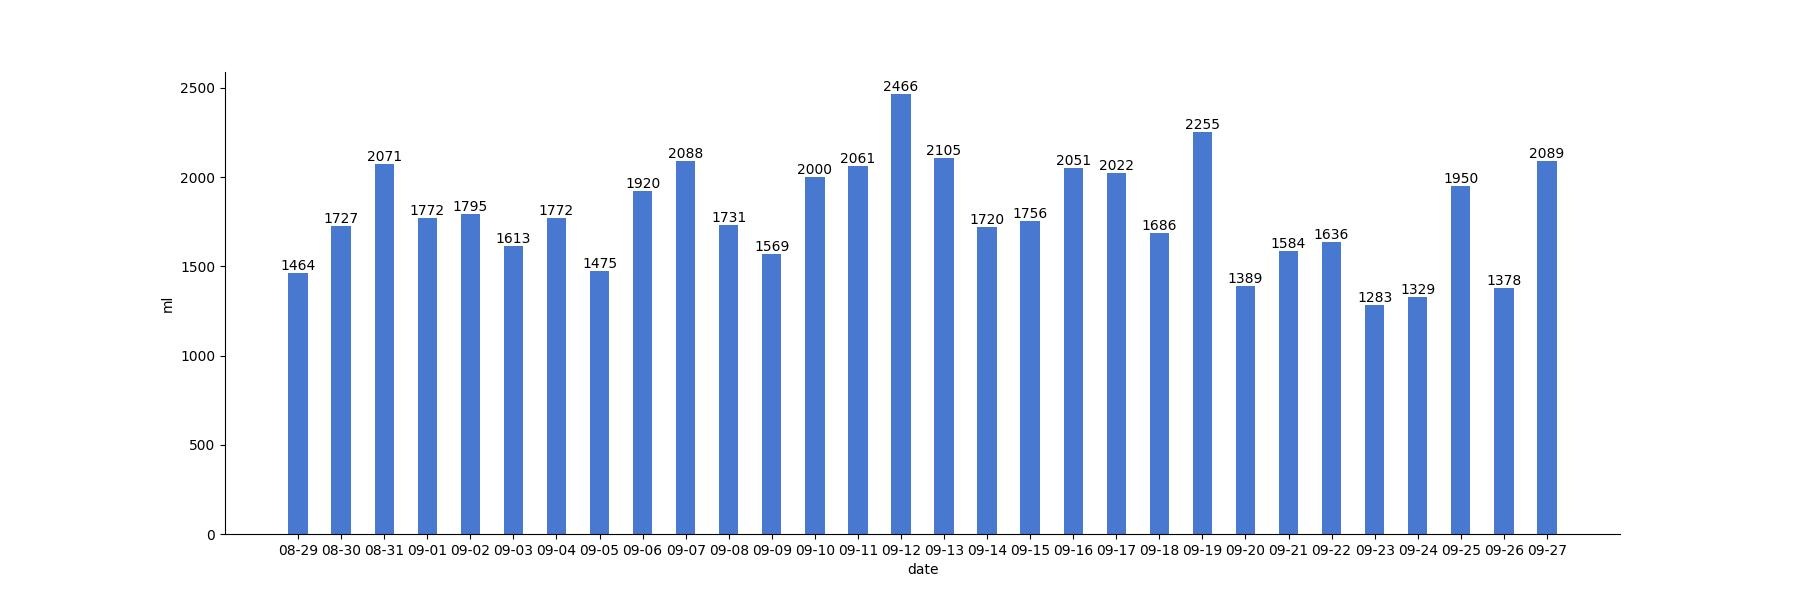
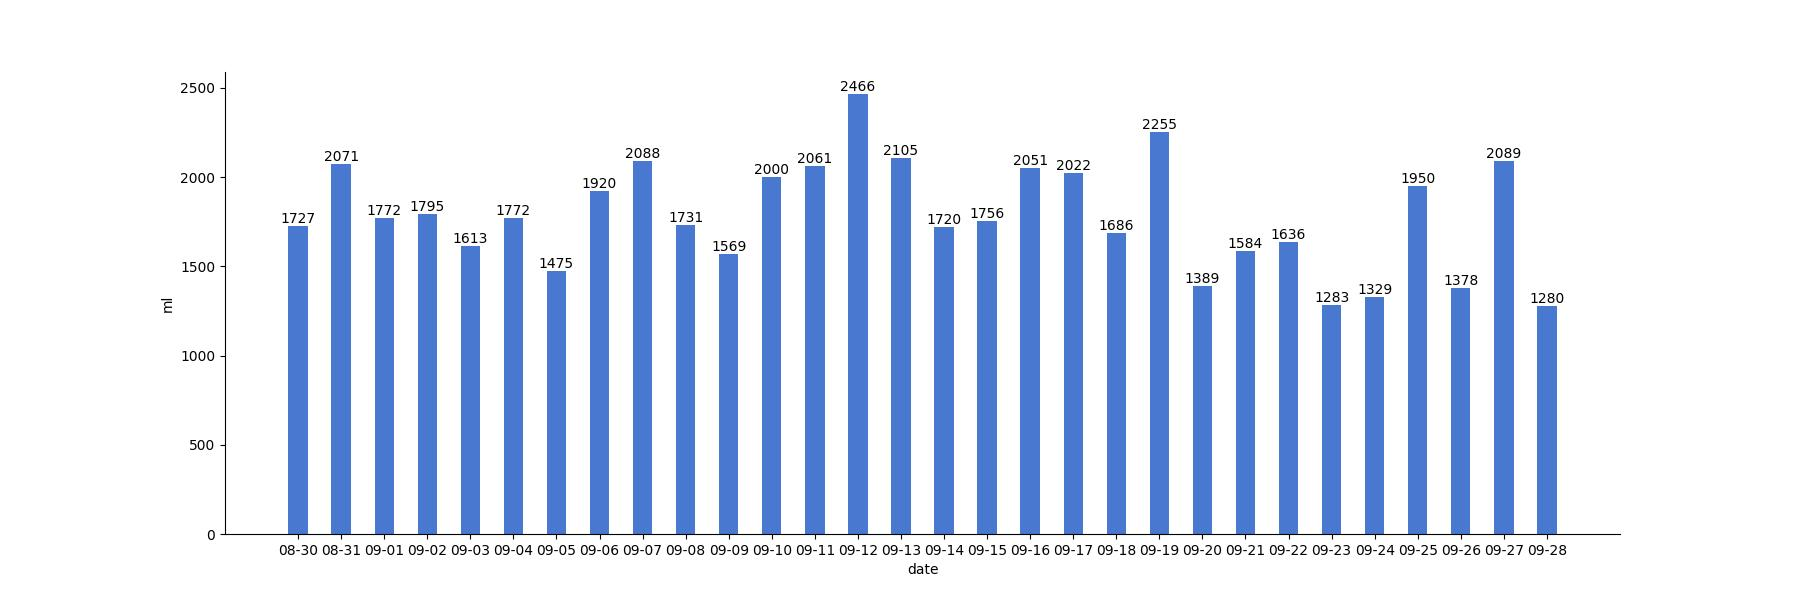
generated readme

diff --git a/README.md b/README.md
@@ -1,17 +1,3 @@
-# 今日饮水数据
-
-<div align=center>
-<img src="today.jpg" style="zoom: 100%;" />
-
-| 今日总饮水量 | 每小时平均饮水量 |
-| :----: | :----: |
-| 1280 | 128 |
-</div>
-
-| 日期 | 08:01:37 | 09:38:38 | 11:13:17 | 12:23:27 | 13:50:03 | 13:54:20 | 17:16:44 | 18:41:45 | 20:41:07 | 21:33:06 | 21:34:19 | 21:57:51 | 23:18:41 | 23:37:08 |
-| :----: | :----: | :----: | :----: | :----: | :----: | :----: | :----: | :----: | :----: | :----: | :----: | :----: | :----: | :----: |
-| 2022-09-28 | 55 | 167 | 62 | 200 | 47 | 57 | 200 | 67 | 70 | 99 | 11 | 80 | 67 | 98 |
-
 # 近30日饮水数据
 
 <div align=center>
@@ -19,8 +5,12 @@
 
 | 总饮水量 | 日均饮水量 |
 | :----: | :----: |
-| 53757 | 1791 |
+| 53573 | 1785 |
 </div>
+
+| 日期 | all | 08:01:37 | 09:38:38 | 11:13:17 | 12:23:27 | 13:50:03 | 13:54:20 | 17:16:44 | 18:41:45 | 20:41:07 | 21:33:06 | 21:34:19 | 21:57:51 | 23:18:41 | 23:37:08 |
+| :----: | :----: | :----: | :----: | :----: | :----: | :----: | :----: | :----: | :----: | :----: | :----: | :----: | :----: | :----: | :----: |
+| 2022-09-28 | 1280 | 55 | 167 | 62 | 200 | 47 | 57 | 200 | 67 | 70 | 99 | 11 | 80 | 67 | 98 |
 
 | 日期 | all | 00:47:15 | 07:59:38 | 08:15:18 | 10:10:37 | 11:12:23 | 12:24:19 | 13:01:54 | 15:02:29 | 15:14:06 | 17:20:41 | 19:12:13 | 19:53:09 | 20:28:03 | 20:45:34 | 21:08:15 | 22:08:21 | 23:41:40 |
 | :----: | :----: | :----: | :----: | :----: | :----: | :----: | :----: | :----: | :----: | :----: | :----: | :----: | :----: | :----: | :----: | :----: | :----: | :----: |
@@ -141,8 +131,4 @@
 | 日期 | all | 00:04:36 | 07:54:33 | 08:13:00 | 10:11:01 | 11:38:35 | 12:22:18 | 12:52:30 | 13:06:15 | 13:41:40 | 15:10:41 | 16:56:39 | 17:26:13 | 17:34:47 | 18:16:31 | 19:12:58 | 21:33:21 | 22:03:27 | 22:33:36 | 23:54:57 |
 | :----: | :----: | :----: | :----: | :----: | :----: | :----: | :----: | :----: | :----: | :----: | :----: | :----: | :----: | :----: | :----: | :----: | :----: | :----: | :----: | :----: |
 | 2022-08-29 | 1464 | 80 | 72 | 83 | 66 | 19 | 200 | 22 | 68 | 58 | 88 | 87 | 200 | 18 | 67 | 81 | 29 | 83 | 57 | 86 |
-
-| 日期 | all | 10:21:03 | 16:33:33 | 17:14:19 | 18:09:12 | 18:49:27 | 19:35:44 | 20:13:34 | 22:26:46 | 23:01:00 | 23:20:36 | 23:46:08 |
-| :----: | :----: | :----: | :----: | :----: | :----: | :----: | :----: | :----: | :----: | :----: | :----: | :----: |
-| 2022-08-28 | 1691 | 62 | 500 | 91 | 41 | 37 | 42 | 150 | 600 | 48 | 55 | 65 |
 
